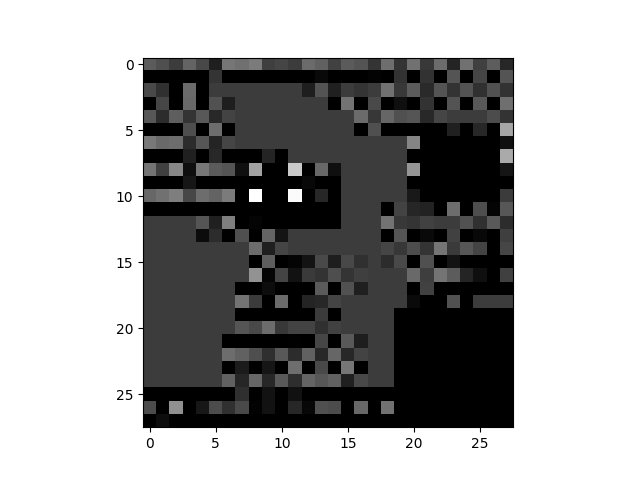
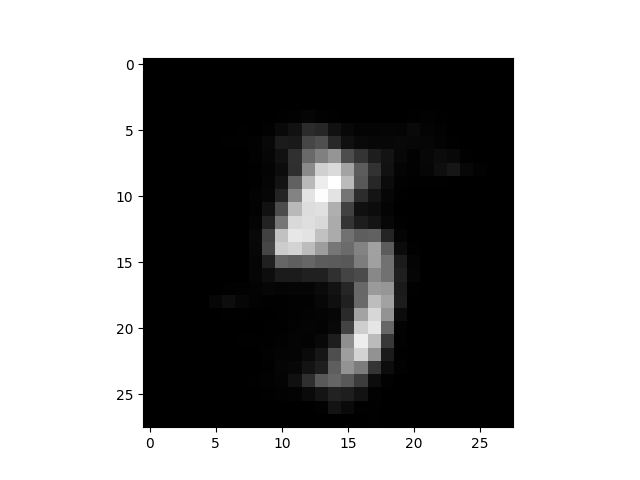
[Update] Linear Regression VAE

Changed region(s): [[0.2188, 0.125, 0.8125, 0.875], [0.7812, 0.3125, 0.8125, 0.3438]]

diff --git a/models/VAE/encoder.py b/models/VAE/encoder.py
@@ -3,29 +3,31 @@ from torch import nn
 from torch.distributions.normal import Normal
 
 from typing import List
+from einops import rearrange
 
 from .block import Block
-from .up_down import DownSample
 
 class Encoder(nn.Module):
     def __init__(self,
-                 dims:List = [1, 32, 64, 128]):
+                 dims:List = [1, 32, 64],
+                 latent:int = 10):
         super().__init__()
         
         in_out = [x for x in zip(dims[:-1], dims[1:])]
         
         self.block_li = nn.ModuleList([])
         
-        for dim_in, dim_out in in_out:
-            self.block_li.append(nn.Sequential(Block(dim_in, dim_out),
-                                               DownSample(dim_out, dim_out)))
+        for idx, (dim_in, dim_out) in enumerate(in_out, start=1):
+            self.block_li.append(Block(dim_in, dim_out, False if idx == len(in_out) else True))
             
-        self.latent_size = dims[-1]
+        self.latent = latent
         
-        self.mu = nn.Conv2d(self.latent_size, self.latent_size, 3, 1, 1)
-        self.log_var = nn.Conv2d(self.latent_size, self.latent_size, 3, 1, 1)
+        self.mu = nn.Linear(dims[-1], self.latent)
+        self.log_var = nn.Linear(dims[-1], self.latent)
         
     def forward(self, x):
+        x = rearrange(x, 'b c h w -> b (c h w)')
+        
         for block in self.block_li:
             x = block(x)
         

diff --git a/models/ELBO/elbo.py b/models/ELBO/elbo.py
@@ -8,15 +8,24 @@ class ELBO(nn.Module):
         super().__init__()
     
     def forward(self, x_prime, x, mu, std):
+        # Should Sum(intra sample) and Mean(inter sample)!!!!
+        # If you set the reduction of each loss to 'mean' without doing this, 
+        # it generates strange samples where the numbers all overlap.
+        
+        bz, c, w, h = x.shape
+        
         # 1. Regularization Term, KL(q(z|x)||p(z))
-        prior_mu, prior_std = torch.zeros(mu.size()).to(mu.device), torch.ones(std.size()).to(mu.device)
+        prior_mu, prior_std = torch.zeros_like(mu).to(mu.device), torch.ones_like(std).to(mu.device)
         prior = dist.Normal(prior_mu, prior_std) # p(z)
+        
         variational = dist.Normal(mu, std) # q(z|x)
-        first_term = dist.kl_divergence(variational, prior).sum()
+        
+        first_term = dist.kl_divergence(variational, prior).sum() / bz # first mean inner each sample, second mean inter sample
         
         # 2. Reconstruction Term
-        second_term = F.mse_loss(x_prime, x, reduction='mean') # NLL이랑 같음
+        second_term = F.mse_loss(x_prime, x, reduction='sum') / bz # NLL이랑 같음
         
+        # print(f"First term: {first_term.item()}, Second term: {second_term.item()}")
         
         minus_elbo = first_term + second_term # This is -ELBO to minimize // original goal is Maximize ELBO
         

diff --git a/models/VAE/decoder.py b/models/VAE/decoder.py
@@ -4,27 +4,38 @@ from torch import nn
 from typing import List
 
 from .block import Block
-from .up_down import UpSample
+
+from einops import rearrange
 
 class Decoder(nn.Module):
     def __init__(self,
-                 dims:List = [128, 64, 32, 1]):
+                 dims:List = [64, 32, 1],
+                 latent:int = 10):
         super().__init__()
+        
+        self.latent = latent
+        print(self.latent)
+        self.li = nn.Linear(self.latent, dims[0])
         
         in_out = [x for x in zip(dims[:-1], dims[1:])]
                 
         self.block_li = nn.ModuleList([])
         
-        for dim_in, dim_out in in_out:
-            self.block_li.append(nn.Sequential(UpSample(dim_in, dim_in),
-                                               Block(dim_in, dim_out)))
+        for idx, (dim_in, dim_out) in enumerate(in_out, start=1):
+            self.block_li.append(Block(dim_in, dim_out, acti=False if idx == len(in_out) else True))
         
         self.sigmoid = nn.Sigmoid()
         
-    def forward(self, x):
+    def forward(self, x, img_size):
+        x = self.li(x)
+        
         for block in self.block_li:
             x = block(x)
             
         x = self.sigmoid(x) # p(x|z)
+        
+        c, w, h = img_size
+        
+        x = rearrange(x, 'b (c w h) -> b c w h', c=c, w=w, h=h)
     
         return x

diff --git a/models/VAE/block.py b/models/VAE/block.py
@@ -4,20 +4,18 @@ from torch import nn
 class Block(nn.Module):
     def __init__(self,
                  in_channels:int,
-                 out_channels:int):
+                 out_channels:int,
+                 acti:bool = True):
         super().__init__()
         
-        self.conv1 = nn.Conv2d(in_channels, out_channels, kernel_size=3, stride=1, padding=1)
-        self.bn1 = nn.BatchNorm2d(out_channels)
+        self.li1 = nn.Linear(in_channels, out_channels)
         
-        self.conv2 = nn.Conv2d(out_channels, out_channels, kernel_size=3, stride=1, padding=1)
-        self.bn2 = nn.BatchNorm2d(out_channels)
-        
-        self.relu = nn.ReLU()
+        if acti == True:
+            self.acti = nn.ReLU()
+        else:
+            self.acti = nn.Identity()
     
     def forward(self, x):
-        x = self.relu(self.bn1(self.conv1(x)))
-        
-        x = self.relu(self.bn2(self.conv2(x)))
+        x = self.acti(self.li1(x))
         
         return x

diff --git a/test.py b/test.py
@@ -36,12 +36,14 @@ def main(cfg):
     print(f"Load Model {model_cfg['name']}")
     
     # Random Sampling from Gaussian
-    gaussian = dist.Normal(loc=torch.zeros((1, 64, 7, 7)),
-                           scale=torch.ones((1, 64, 7, 7)))
+    latent_size = model_cfg['latent']
+    gaussian = dist.Normal(loc=torch.zeros((1, latent_size)),
+                           scale=torch.ones((1, latent_size)))
     random_vector = gaussian.sample().to(device)
     
     # Generation
-    x_prime = model.decoder(random_vector)
+    img_size = (1, 28, 28)
+    x_prime = model.decoder(random_vector, img_size)
     
     # Reshape & Visualization
     x_prime = rearrange(x_prime, '1 c h w -> h w c').detach().cpu().numpy() * 255.

diff --git a/models/VAE/vae.py b/models/VAE/vae.py
@@ -4,15 +4,20 @@ from .decoder import Decoder
 import torch
 from torch import nn
 
+from einops import rearrange
+from typing import List
+
 class VAE(nn.Module):
     def __init__(self,
-                 dims=[1, 32, 64, 128]):
+                 dims:List = [1, 32, 64, 128],
+                 latent:int = 10):
         super().__init__()
         
-        self.encoder = Encoder(dims)
-        self.decoder = Decoder(dims[::-1])
+        self.encoder = Encoder(dims, latent)
+        self.decoder = Decoder(dims[::-1], latent)
 
     def forward(self, x):
+        b, c, w, h = x.size()
         z, mu, std = self.encoder(x)
-        x = self.decoder(z)
+        x = self.decoder(z, (c, w, h))
         return x, mu, std

diff --git a/models/__init__.py b/models/__init__.py
@@ -3,7 +3,8 @@ from .VAE.vae import VAE
 
 def load_model(**cfg):
     if cfg['name'] == 'VAE':
-        return VAE(dims=cfg['dims'])
+        return VAE(dims=cfg['dims'],
+                   latent=cfg['latent'])
 
 def load_loss_fn(**cfg):
     if cfg['name'] == 'ELBO':
